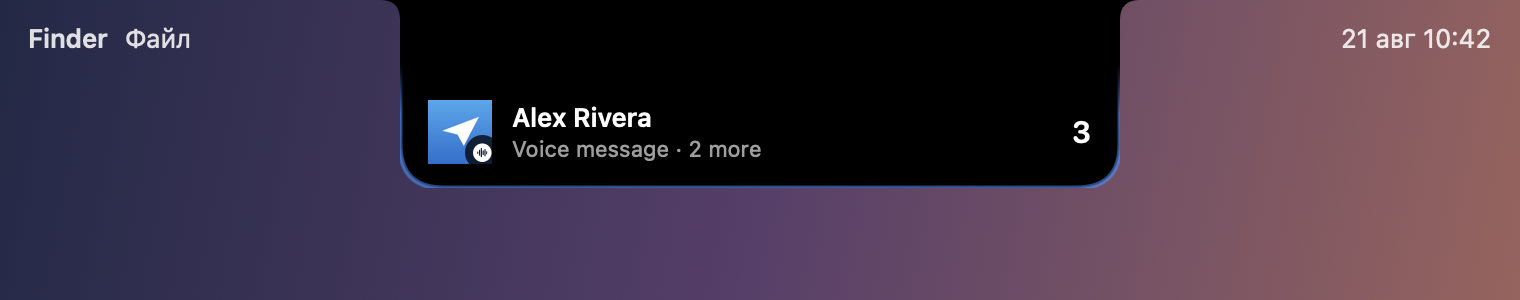
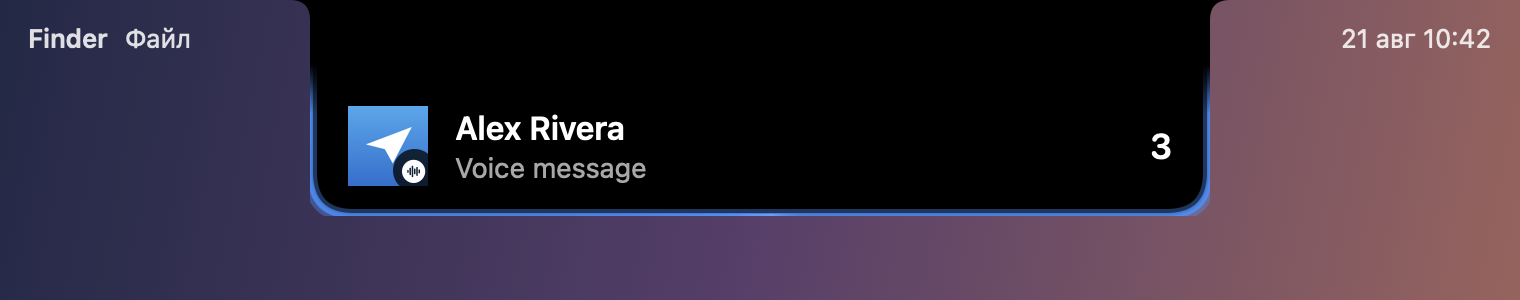
Подсветка уведомления ярче, и по ней бежит свет
Обводка была тонкой линией в один пиксель, а цвет для неё снимается
с иконки приложения — у тёмных иконок он почти чёрный, и на чёрном фоне
не видно ничего. Тон сохраняется, яркость и насыщенность поднимаются
до различимых, свечение наружу идёт двумя слоями: ближний даёт цвет,
дальний — ощущение подсветки вокруг выреза.

По обводке бежит блик. Вращается сам угловой градиент, а не фигура:
поверни фигуру — и вместе со светом поехал бы контур выреза. В первый
момент карточка приходит ярче и за секунду успокаивается. Скорость общая
с остальными анимациями, поэтому в «Спокойном» наборе свет идёт медленнее.

Тест сравнивает два кадра после того, как отыграла вспышка появления:
если свет встал, кадры совпадают. Проверено — с выключенной анимацией
тест падает.

Changed region(s): [[0.1855, 0.0, 0.8039, 0.72]]

diff --git a/Sources/AuraCore/Activities/EventCard.swift b/Sources/AuraCore/Activities/EventCard.swift
@@ -137,27 +137,94 @@ struct EventCard: View {
 ///
 /// Цвет берётся с иконки — у Telegram он голубой, у почты синий, — и это
 /// единственное, что отличает одно уведомление от другого боковым зрением.
+/// Поэтому она должна быть заметна: тонкая линия в один пиксель на чёрном
+/// теряется, особенно если цвет приложения тёмный.
+///
+/// Свет по ней бежит по кругу — так карточка читается как живая, а не
+/// как нарисованная рамка. Живёт это ровно столько, сколько висит само
+/// уведомление: несколько секунд.
 struct EventRim: View {
     let shape: NotchShape
     let tint: Color
 
+    @EnvironmentObject private var settings: SettingsStore
+
+    /// Куда сейчас смотрит бегущий блик.
+    @State private var sweep: Double = 0
+    /// Вспышка в первый момент: карточка приходит ярче, чем живёт потом.
+    @State private var settled = false
+
     var body: some View {
         ZStack {
+            // Ровная обводка — основа, она есть всегда.
             shape
                 .stroke(
                     LinearGradient(
-                        colors: [tint.opacity(0.9), tint.opacity(0.25)],
+                        colors: [vivid, vivid.opacity(0.45)],
                         startPoint: .top,
                         endPoint: .bottom
                     ),
-                    lineWidth: 1.2
+                    lineWidth: 1.6
                 )
-            // Мягкое свечение наружу: обводка в один пиксель на чёрном фоне
-            // теряется, а с ним карточка читается как подсвеченная.
+
+            // Бегущий блик: вращается сам градиент, а не фигура, — иначе
+            // вместе со светом поехал бы и контур выреза.
             shape
-                .stroke(tint.opacity(0.5), lineWidth: 2.5)
-                .blur(radius: 6)
+                .stroke(
+                    AngularGradient(
+                        gradient: Gradient(stops: [
+                            .init(color: .clear, location: 0),
+                            .init(color: .white.opacity(0.9), location: 0.06),
+                            .init(color: vivid, location: 0.12),
+                            .init(color: .clear, location: 0.28),
+                            .init(color: .clear, location: 1),
+                        ]),
+                        center: .center,
+                        angle: .degrees(sweep)
+                    ),
+                    lineWidth: 2.2
+                )
+                .blur(radius: 1.2)
+
+            // Свечение наружу в два слоя: ближний даёт цвет, дальний —
+            // ощущение подсветки вокруг выреза.
+            shape
+                .stroke(vivid.opacity(settled ? 0.65 : 0.9), lineWidth: 3)
+                .blur(radius: 7)
+            shape
+                .stroke(vivid.opacity(settled ? 0.3 : 0.55), lineWidth: 7)
+                .blur(radius: 16)
         }
         .allowsHitTesting(false)
+        .onAppear {
+            // Скорость общая с остальными анимациями: в «Спокойном» наборе
+            // всё замедлено в полтора раза, и блик не должен быть
+            // единственным, что бежит по-прежнему быстро.
+            let round = 2.6 * max(0.5, settings.animationSpeed)
+            withAnimation(.linear(duration: round).repeatForever(autoreverses: false)) {
+                sweep = 360
+            }
+            withAnimation(.easeOut(duration: 0.9)) { settled = true }
+        }
+    }
+
+    /// Цвет иконки, поднятый до свечения.
+    ///
+    /// Акцент снимается с самой иконки, и у тёмных он выходит почти чёрным —
+    /// такая обводка не видна вовсе. Тон сохраняем, яркость и насыщенность
+    /// поднимаем до различимых.
+    private var vivid: Color {
+        guard let base = NSColor(tint).usingColorSpace(.sRGB) else { return tint }
+        var hue: CGFloat = 0
+        var saturation: CGFloat = 0
+        var brightness: CGFloat = 0
+        var alpha: CGFloat = 0
+        base.getHue(&hue, saturation: &saturation, brightness: &brightness, alpha: &alpha)
+
+        return Color(
+            hue: Double(hue),
+            saturation: Double(min(1, max(saturation, 0.55))),
+            brightness: Double(min(1, max(brightness, 0.9)))
+        )
     }
 }

diff --git a/Tests/AuraCoreTests/SnapshotRendererTests.swift b/Tests/AuraCoreTests/SnapshotRendererTests.swift
@@ -63,6 +63,23 @@ final class SnapshotRendererTests: XCTestCase {
         )
     }
 
+    /// Подсветка карточки не просто есть — по ней бежит свет. Проверяется
+    /// это единственным доступным способом: два кадра в разные моменты
+    /// не должны совпасть. Заодно ловится случай, когда анимация встала
+    /// (`repeatForever` без `onAppear` молча ничего не делает).
+    func testRimLightKeepsMoving() throws {
+        // Оба кадра — после того, как отыграла вспышка появления: иначе
+        // тест проходил бы и с неподвижной обводкой.
+        let scene = SnapshotScenes.notificationEvent()
+        let early = try render(scene, settling: 1.2)
+        let late = try render(scene, settling: 1.9)
+
+        XCTAssertGreaterThan(
+            biggestDifference(early, late), 0.05,
+            "подсветка неподвижна — свет по обводке не бежит"
+        )
+    }
+
     func testEverySceneRenders() throws {
         for scene in SnapshotScenes.all() {
             let bitmap = try render(scene)
@@ -71,6 +88,32 @@ final class SnapshotRendererTests: XCTestCase {
     }
 
     // MARK: - Опоры
+
+    /// Самая изменившаяся точка двух кадров. Среднее здесь не годится:
+    /// обводка занимает доли процента кадра, и любое движение по ней
+    /// растворяется в чёрном фоне.
+    private func biggestDifference(
+        _ first: NSBitmapImageRep, _ second: NSBitmapImageRep
+    ) -> CGFloat {
+        var biggest: CGFloat = 0
+        for x in stride(from: 0, to: min(first.pixelsWide, second.pixelsWide), by: 2) {
+            for y in stride(from: 0, to: min(first.pixelsHigh, second.pixelsHigh), by: 2) {
+                biggest = max(
+                    biggest,
+                    abs(brightness(first, x: x, y: y) - brightness(second, x: x, y: y))
+                )
+            }
+        }
+        return biggest
+    }
+
+    private func render(
+        _ scene: SnapshotScene, settling: TimeInterval
+    ) throws -> NSBitmapImageRep {
+        var copy = scene
+        copy.settleTime = settling
+        return try render(copy)
+    }
 
     private func render(_ scene: SnapshotScene) throws -> NSBitmapImageRep {
         // Видам нужен инициализированный NSApplication: без него AppKit
